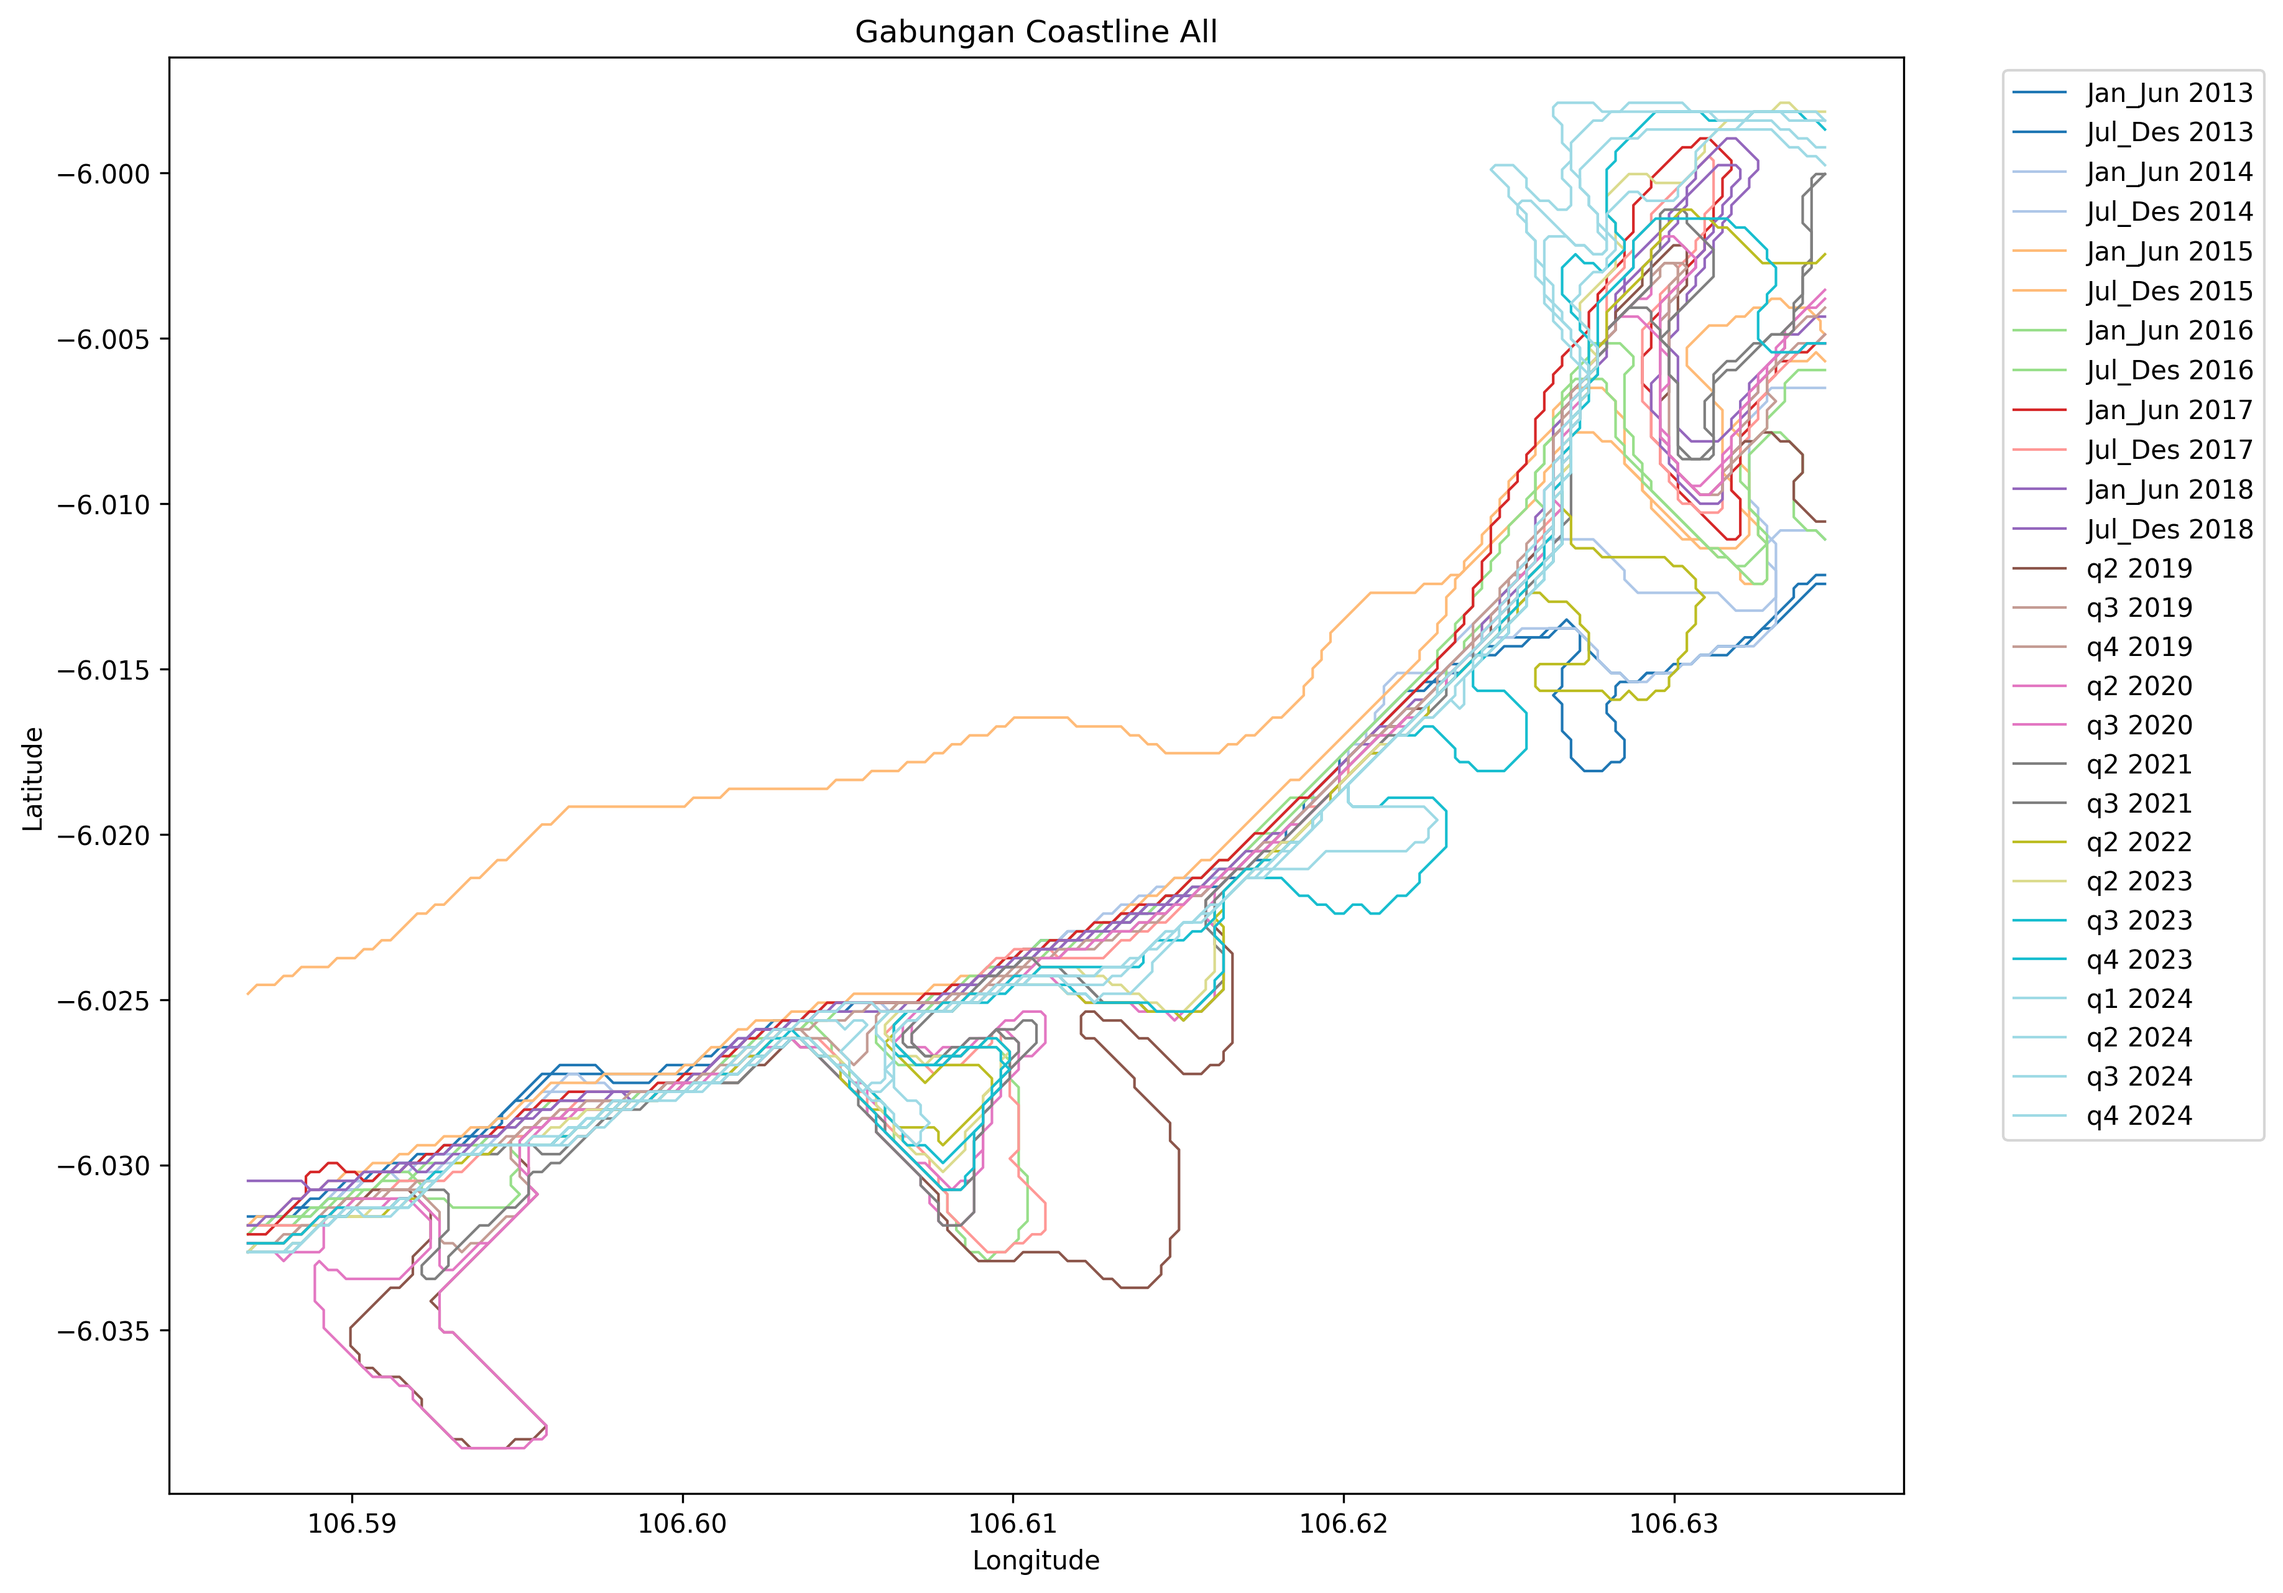
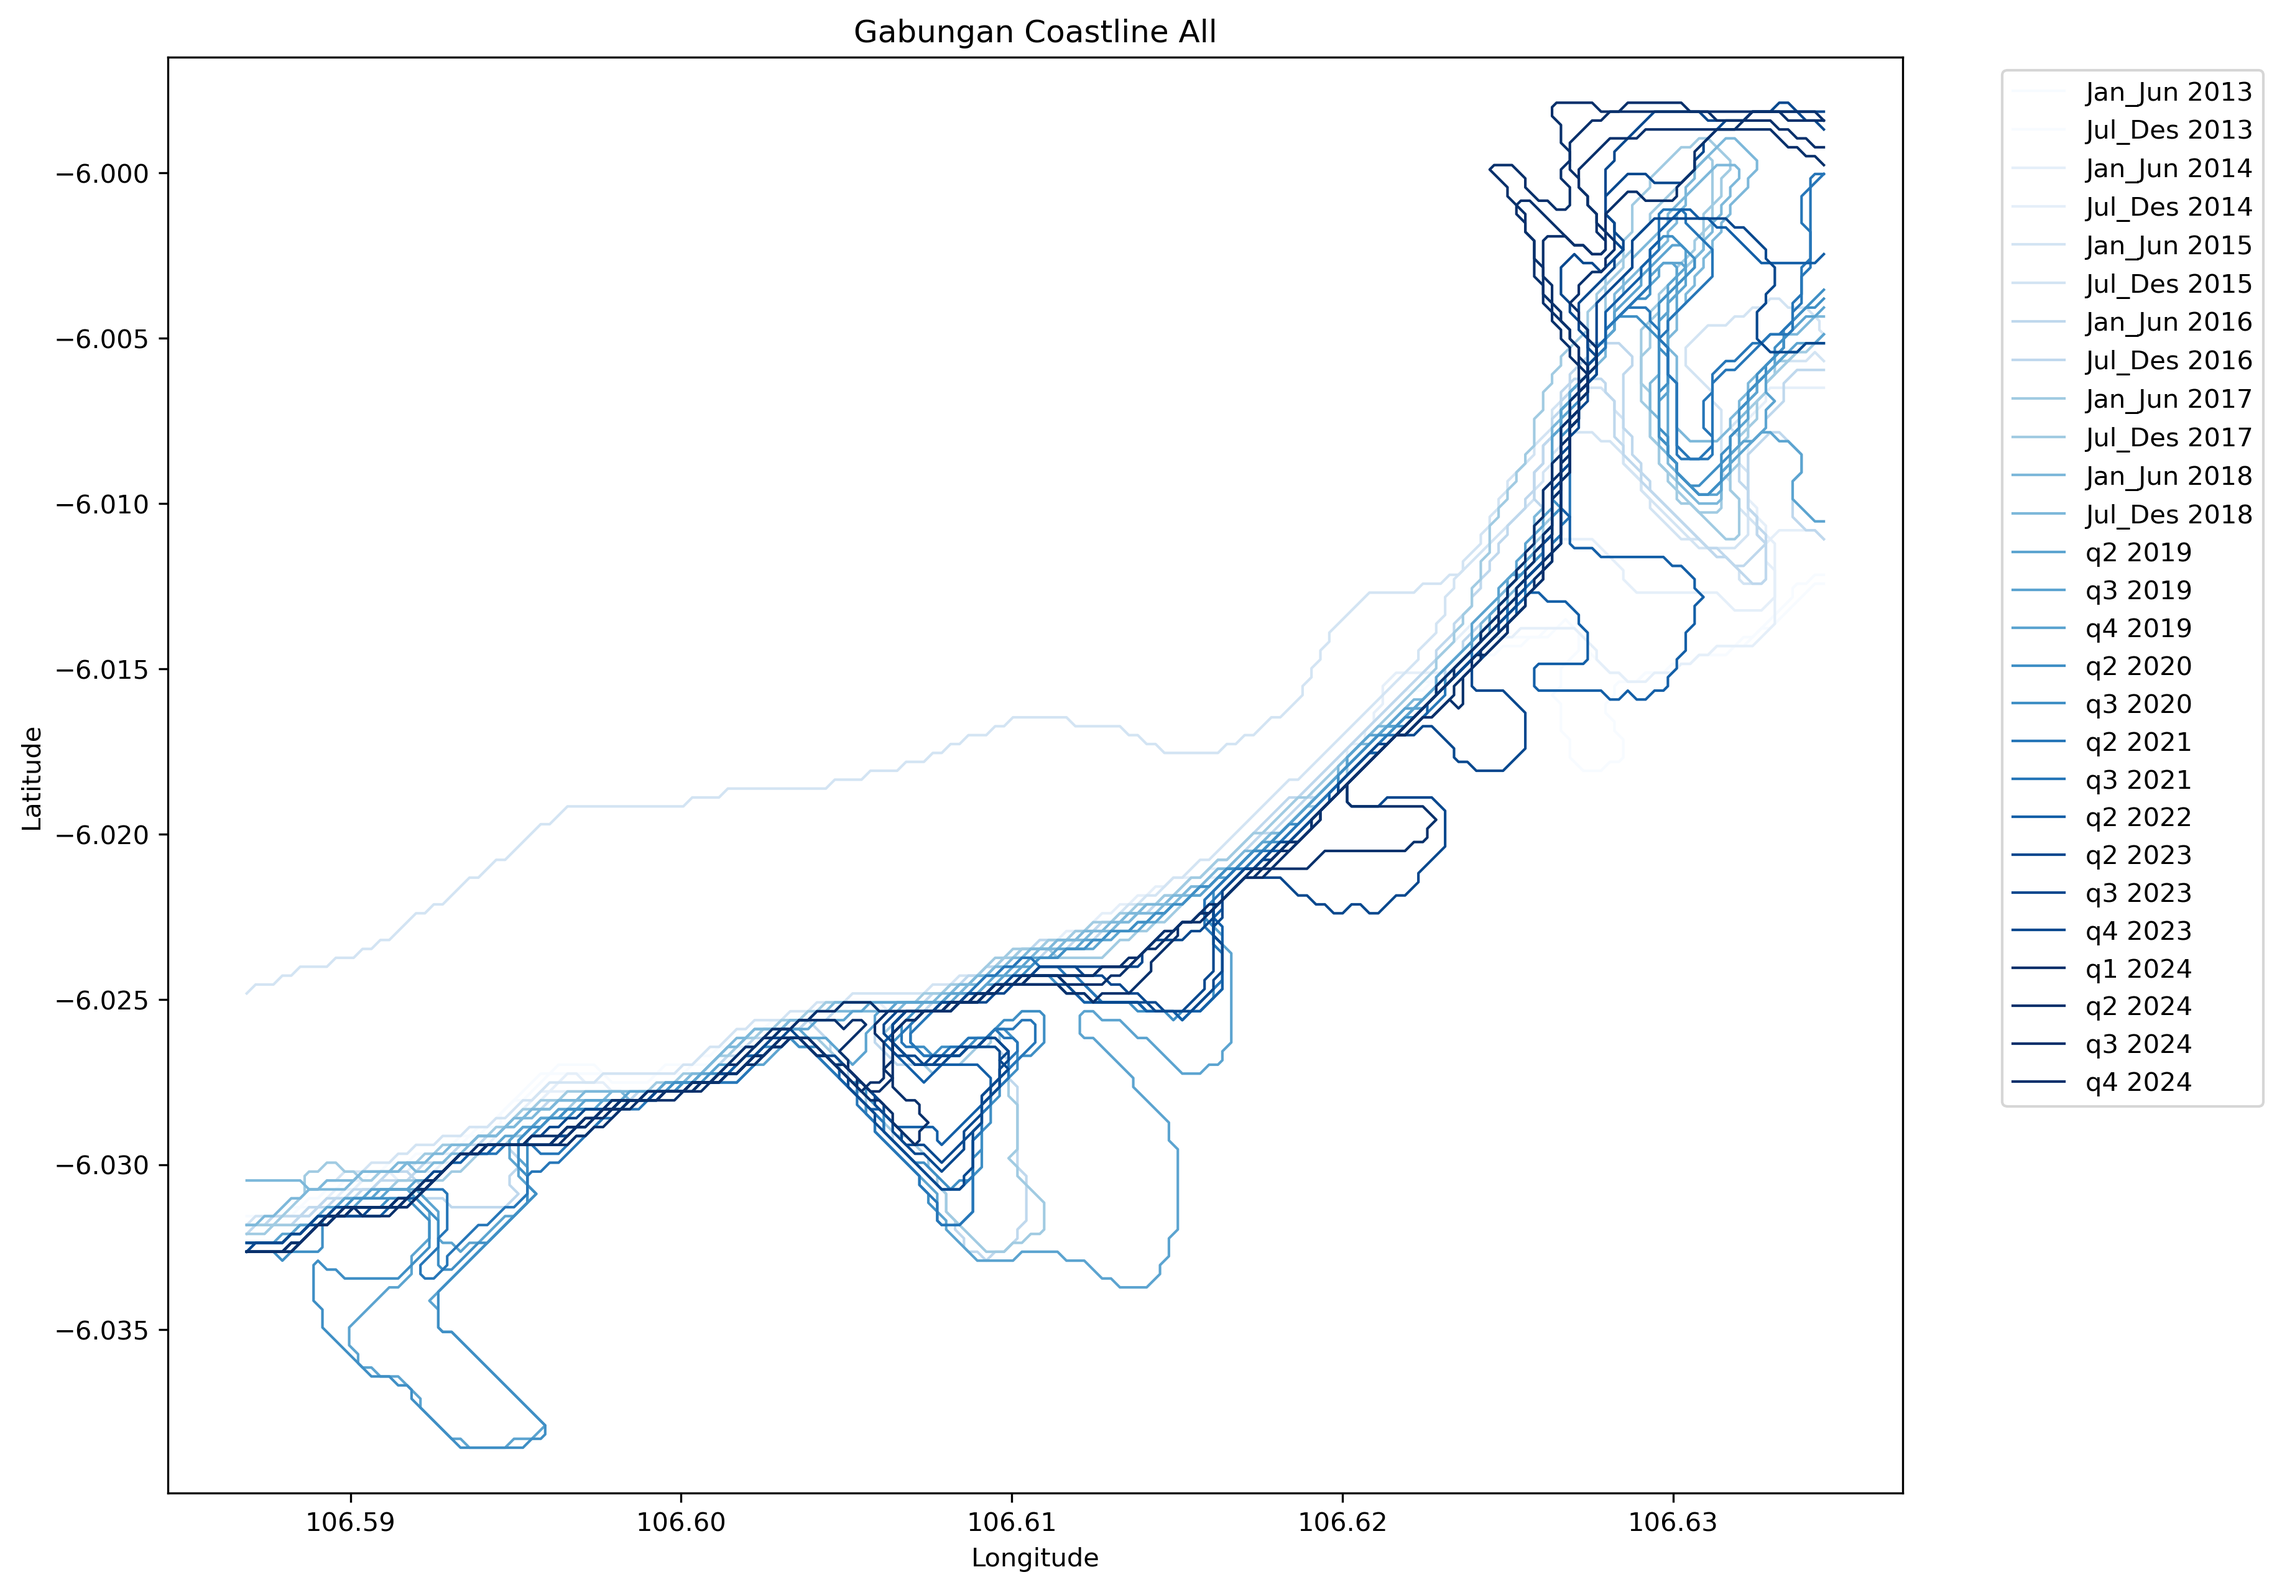
edit gradasi legend

diff --git a/modules/combine_hasil.py b/modules/combine_hasil.py
@@ -17,8 +17,6 @@ BASE_MODULES = os.path.dirname(__file__)
 os.makedirs(OUTPUT_DIR, exist_ok=True)
 
 def init_result():
-    BASE_DIR = os.path.dirname(__file__)  # === /proyek-ds-2/modules
-    print("Base_dir didalam "+ BASE_DIR)
     coastlines_all = []
     # ==== Path dasar & parameter ====
     years = range(2013, 2019)
@@ -86,20 +84,15 @@ def init_result():
 
 def generate_coastline_all():
     coastlines_all = init_result()
-    
-    # --- Setup warna ---
     years = sorted(set([c["year"] for c in coastlines_all]))
-    # print(years)
-    periods = ["Jan_Jun", "Jul_Des", "q1", "q2", "q3", "q4"]
-    colors = cm.tab20(np.linspace(0, 1, len(years) * len(periods)))  # palet warna
+
+    # Colormap 1 warna
+    cmap = cm.Blues  
+    # Normalisasi tahun → range 0–1 untuk colormap
+    norm = plt.Normalize(min(years), max(years))
+    # Map tahun -> warna gradasi
+    color_map = {y: cmap(norm(y)) for y in years}
     
-    # Mapping kombinasi (year, period) ke warna unik
-    color_map = {}
-    i = 0
-    for y in years:
-        for p in periods:
-            color_map[(y, p)] = colors[i]
-            i += 1
     # --- Plot gabungan ---
     plt.figure(figsize=(12, 10))
     
@@ -109,12 +102,12 @@ def generate_coastline_all():
         coastline = item["coastline"]
 
         for contour in coastline:
-            xs = [pt[0] for pt in contour]  # x (longitude)
-            ys = [pt[1] for pt in contour]  # y (latitude)
-            plt.plot(xs, ys, color=color_map[(year, period)], linewidth=1,
-                    label=f"{period} {year}")
+            xs = [pt[0] for pt in contour]  # longitude
+            ys = [pt[1] for pt in contour]  # latitude
+            plt.plot(xs, ys, color=color_map[year], linewidth=1,
+                     label=f"{period} {year}")
 
-    # Hilangkan duplikat di legend
+    # Hilangkan duplikat legend
     handles, labels = plt.gca().get_legend_handles_labels()
     by_label = dict(zip(labels, handles))
     plt.legend(by_label.values(), by_label.keys(), bbox_to_anchor=(1.05, 1), loc="upper left")
@@ -123,52 +116,81 @@ def generate_coastline_all():
     plt.xlabel("Longitude")
     plt.ylabel("Latitude")
     plt.axis("equal")
-    plt.savefig(os.path.join(OUTPUT_DIR, "coastline_combined_all.png"),dpi=300, bbox_inches='tight')
-    # plt.show()
-    
+    plt.savefig(os.path.join(OUTPUT_DIR, "coastline_combined_all.png"),
+                dpi=300, bbox_inches='tight')
+
     return coastlines_all
 
-def generate_coastline_compare(curYear):
+def generate_coastline_compare(startYear, endYear):
     coastlines_all = generate_coastline_all()
-    years = [curYear, curYear+1]
+    years = list(range(startYear, endYear + 1))
     periods = ["Jan_Jun", "Jul_Des", "q1", "q2", "q3", "q4"]
-    colors = cm.tab20(np.linspace(0, 1, len(years) * len(periods)))  # palet warna
-    
-    # Mapping kombinasi (year, period) ke warna unik
+
+    # Base colormap 
+    base_cmaps = [
+        cm.Blues,
+        cm.Reds,
+        cm.Greens,
+        cm.Purples,
+        cm.Oranges,
+        cm.Greys,
+        cm.pink,
+        cm.BuPu,
+        cm.GnBu,
+        cm.YlOrBr,
+        cm.YlGn,
+        cm.RdPu
+    ]
+
+    # Map tahun → colormap
+    year_cmap_map = {}
+    for i, y in enumerate(years):
+        year_cmap_map[y] = base_cmaps[i]
+    # Mapping warna final
     color_map = {}
-    i = 0
+    grad_positions = [0.55, 0.9, 0.3, 0.55, 0.75, 0.9]
+
     for y in years:
-        for p in periods:
-            color_map[(y, p)] = colors[i]
-            i += 1
+        cmap = year_cmap_map[y]
+        for idx, p in enumerate(periods):
+            color_map[(y, p)] = cmap(grad_positions[idx])
+
     # --- Plot gabungan ---
     plt.figure(figsize=(12, 10))
-    
+
     for item in coastlines_all:
         year = item["year"]
         period = item["period"]
-        coastline = item["coastline"]
-        
-        if (year in years):
-            for contour in coastline:
-                xs = [pt[0] for pt in contour]  # x (longitude)
-                ys = [pt[1] for pt in contour]  # y (latitude)
-                plt.plot(xs, ys, color=color_map[(year, period)], linewidth=1,
-                        label=f"{period} {year}")
 
-    # Hilangkan duplikat di legend
+        if year not in years:
+            continue
+        coastline = item["coastline"]
+        for contour in coastline:
+            xs = [pt[0] for pt in contour]
+            ys = [pt[1] for pt in contour]
+
+            plt.plot(
+                xs, ys,
+                color=color_map[(year, period)],
+                linewidth=1,
+                label=f"{period} {year}"
+            )
+
+    # — Legend —
     handles, labels = plt.gca().get_legend_handles_labels()
     by_label = dict(zip(labels, handles))
     plt.legend(by_label.values(), by_label.keys(), bbox_to_anchor=(1.05, 1), loc="upper left")
 
-    plt.title("Gabungan Coastline")
+    plt.title(f"Coastline Comparison {startYear}–{endYear}")
     plt.xlabel("Longitude")
     plt.ylabel("Latitude")
     plt.axis("equal")
-    # plt.savefig(f"web_app/coastlines/coastline_combined_{curYear}-{curYear+1}.png", dpi=300, bbox_inches='tight')
-    out_path = os.path.join(OUTPUT_DIR, f"coastline_combined_{curYear}-{curYear+1}.png")
+
+    out_path = os.path.join(OUTPUT_DIR, f"coastline_compare_{startYear}-{endYear}.png")
     plt.savefig(out_path, dpi=300, bbox_inches='tight')
     plt.show()
+
+    return out_path
 
 def interpolate_line(line, num_points):
     """Interpolasi garis pantai agar punya jumlah titik seragam."""

diff --git a/modules/main.py b/modules/main.py
@@ -7,10 +7,10 @@ import combine_hasil
 
 # General Coastline Landsat 
 # combine_hasil.generate_coastline_all()
-combine_hasil.avg_coastline(2)
+# combine_hasil.avg_coastline(2)
 # combine_hasil.avg_coastline(4)
 # combine_hasil.avg_coastline(6)
-# combine_hasil.generate_coastline_compare(2013)
+combine_hasil.generate_coastline_compare(2019, 2023)
 # combine_hasil.generate_coastline_compare(2023)
 # combine_hasil.generate_coastline_compare_avg(2013)
 # combine_hasil.generate_coastline_compare_avg(2023)

diff --git a/modules/landsat_model.py b/modules/landsat_model.py
@@ -13,7 +13,7 @@ np.random.seed(42)
 # 1) Authenticate & init
 # -------------------------
 try:
-    ee.Initialize(project="ee-junitahariyati0717")
+    ee.Initialize(project="ee-tiffanytasyaagatha")
 except ee.EEException:
     ee.Authenticate()
     ee.Initialize()

diff --git a/modules/sentinel_model.py b/modules/sentinel_model.py
@@ -13,7 +13,7 @@ np.random.seed(42)
 # 1) Authenticate & init
 # -------------------------
 try:
-    ee.Initialize(project="ee-junitahariyati0717")
+    ee.Initialize(project="ee-tiffanytasyaagatha")
 except ee.EEException:
     ee.Authenticate()
     ee.Initialize()
